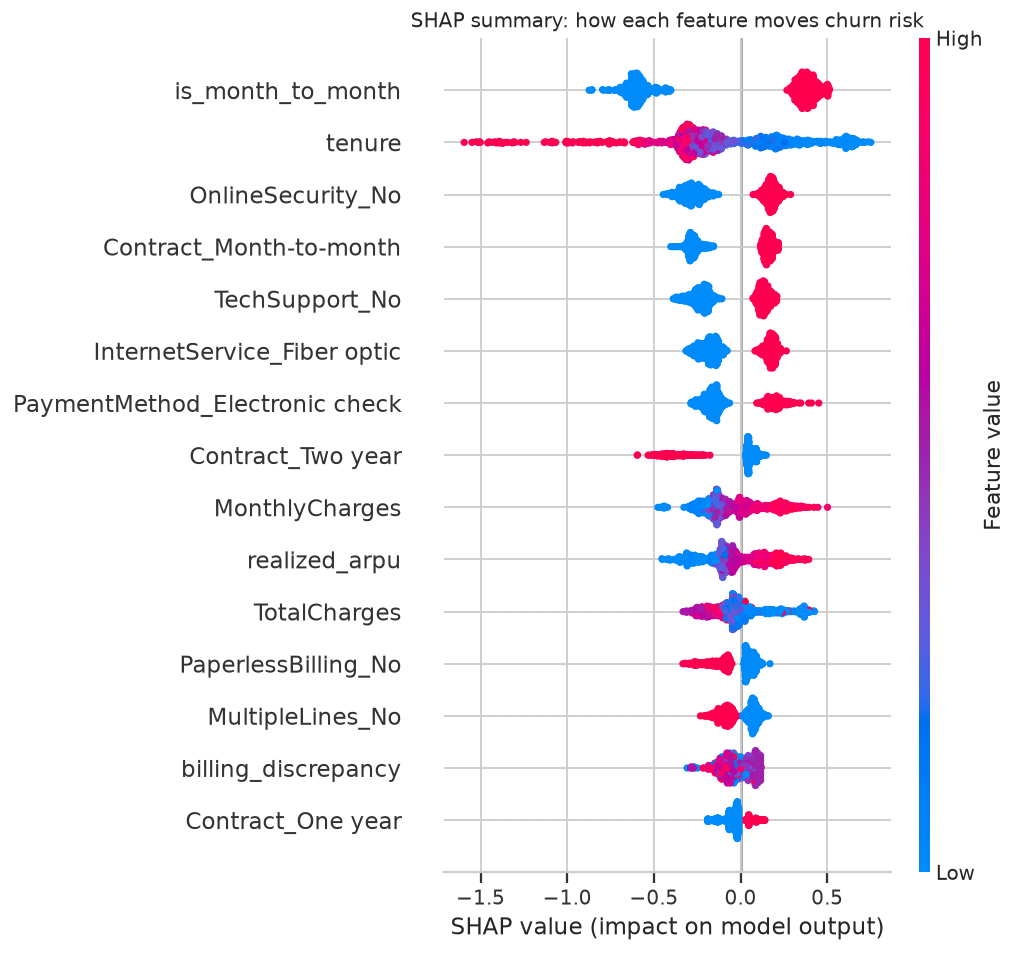
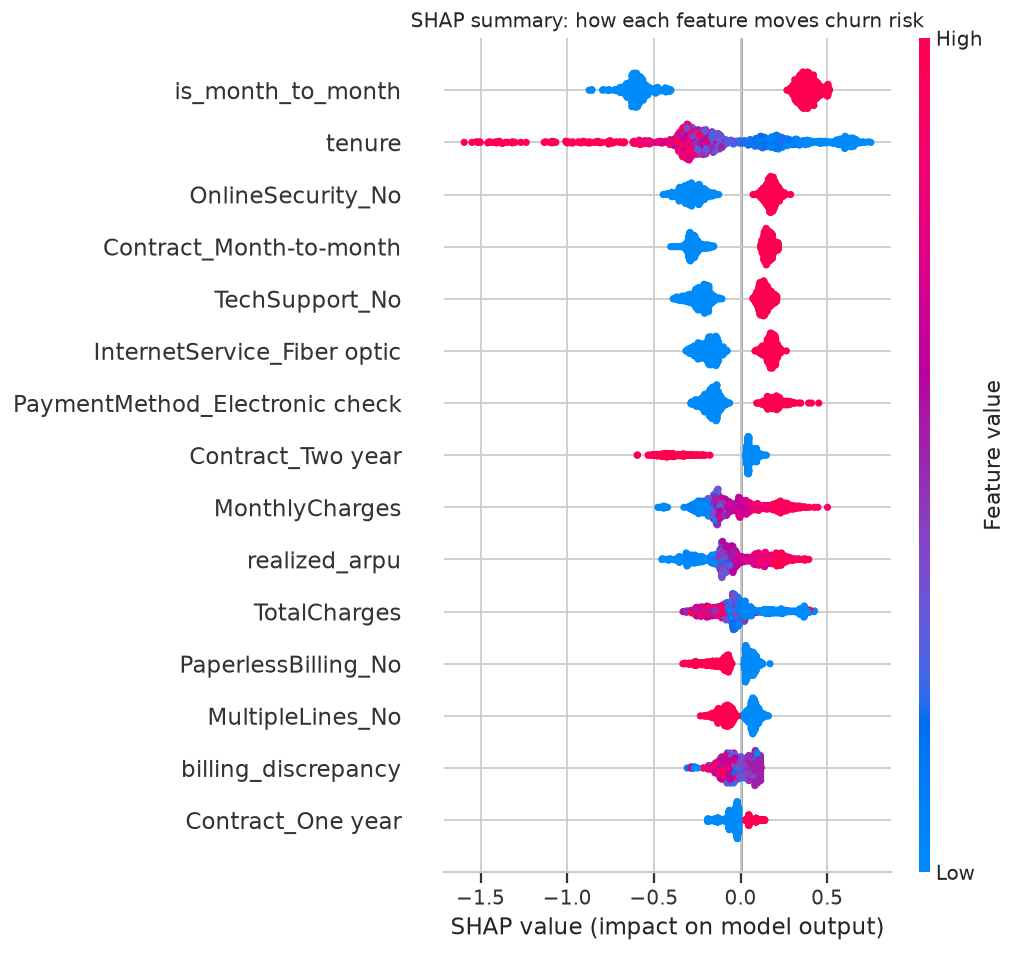
AIML-3: close four gaps against the spec, incl. the missing calibration curve
Self-review against the requirements found four things missing, three of them
explicitly asked for.

Requirement 8 asks for a calibration curve. `reliability_data()` existed but was
never called from anywhere -- so there was no reliability diagram, and the
function was dead code. Adds src/evaluation/plots.py and wires it in, plotting
all three candidates (uncalibrated, sigmoid, isotonic) on one axis so the figure
shows what was chosen AND what was rejected. It makes the decision to decline
calibration visible: sigmoid deviates across the mid-range where most customers
sit, while the uncalibrated curve hugs the diagonal.

The lower panel of that figure carries the bin counts, because the top
probability bins hold only a few dozen customers and the wobble up there is
small-sample noise. A reliability curve read without its counts invites fixing a
problem that does not exist.

Requirement 7 asks for threshold analysis; there were tables but no plot. Adds
net value / precision-recall / contact-rate against threshold, with the default
0.5, the value-optimal point and the per-customer EV rule all marked. Also adds
PR and ROC curves -- with the PR baseline drawn at the base rate rather than 0.5,
since that is what makes PR-AUC ~0.61 a real result at a 26.5% base rate -- and
confusion matrices at both thresholds.

data/processed/ existed as an empty directory from the requested structure.
Training now writes scored_test_customers.csv there: one row per customer with
[…]

Changed region(s): [[0.6699, 0.5173, 0.7613, 0.6695], [0.6395, 0.1217, 0.7613, 0.1826], [0.6699, 0.7912, 0.7613, 0.8216]]

diff --git a/aiml3-customer-churn-explainable-ml/src/evaluation/plots.py b/aiml3-customer-churn-explainable-ml/src/evaluation/plots.py
@@ -1,0 +1,178 @@
+"""Evaluation figures: calibration, thresholds, PR/ROC, confusion.
+
+Kept separate from metrics.py so the metric functions stay importable without
+pulling in matplotlib, and so a headless run can skip plotting entirely.
+"""
+from __future__ import annotations
+
+from pathlib import Path
+
+import matplotlib
+
+matplotlib.use("Agg")  # must precede pyplot; keeps a headless run from needing a display
+
+import matplotlib.pyplot as plt
+import numpy as np
+import pandas as pd
+from sklearn.metrics import precision_recall_curve, roc_curve
+
+from src.evaluation.metrics import MetricSet, expected_calibration_error, reliability_data
+
+CHURN_COLOR = "#c53030"
+STAY_COLOR = "#2b6cb0"
+
+
+def plot_calibration(
+    y_true: np.ndarray, probabilities: dict[str, np.ndarray], dest: Path,
+    n_bins: int = 10,
+) -> Path:
+    """Reliability diagram comparing raw and calibrated probabilities.
+
+    The diagonal is perfect calibration. A curve below it means the model is
+    overconfident (it says 0.8 for groups that churn less often), which inflates
+    every expected-value calculation in the decision layer.
+
+    The histogram matters as much as the curve: a bin holding 5 customers can sit
+    far off the diagonal through noise alone, so the curve should not be read
+    without the counts underneath it.
+    """
+    y_true = np.asarray(y_true).astype(int)
+    fig, (ax, ax_hist) = plt.subplots(
+        2, 1, figsize=(7.5, 8), sharex=True,
+        gridspec_kw={"height_ratios": [3, 1]})
+
+    ax.plot([0, 1], [0, 1], "--", color="black", lw=1, label="perfectly calibrated")
+    for name, prob in probabilities.items():
+        mean_pred, frac_pos = reliability_data(y_true, prob, n_bins=n_bins)
+        ece = expected_calibration_error(y_true, prob, n_bins=n_bins)
+        ax.plot(mean_pred, frac_pos, "o-", lw=1.8, ms=5,
+                label=f"{name} (ECE {ece:.4f})")
+        ax_hist.hist(prob, bins=n_bins, range=(0, 1), alpha=0.5, label=name)
+
+    ax.set_ylabel("observed churn rate")
+    ax.set_title("Calibration: does a predicted 0.7 mean a 70% chance?", fontsize=12)
+    ax.legend(fontsize=9, loc="upper left")
+    ax.grid(alpha=0.3)
+
+    ax_hist.set_xlabel("predicted probability")
+    ax_hist.set_ylabel("customers")
+    ax_hist.set_yscale("log")
+    ax_hist.set_title("Prediction distribution (bin counts behind the curve above)",
+                      fontsize=10)
+    ax_hist.grid(alpha=0.3)
+
+    fig.tight_layout()
+    fig.savefig(dest, dpi=130)
+    plt.close(fig)
+    return dest
+
+
+def plot_threshold_analysis(
+    curve: pd.DataFrame, best_threshold: float, dest: Path,
+    per_customer_value: float | None = None,
+) -> Path:
+    """Net value, precision/recall and contact volume against the threshold.
+
+    Shows why 0.5 is an arbitrary choice: the value-optimal point is wherever the
+    net-value curve peaks, and that depends on the assumed economics rather than
+    on anything in the data.
+    """
+    fig, axes = plt.subplots(1, 3, figsize=(16, 4.4))
+
+    ax = axes[0]
+    ax.plot(curve["threshold"], curve["net_value"], color="#276749", lw=2)
+    ax.axvline(best_threshold, ls="--", color=CHURN_COLOR, lw=1.5,
+               label=f"optimal {best_threshold:.2f}")
+    ax.axvline(0.5, ls=":", color="black", lw=1.2, label="default 0.5")
+    if per_customer_value is not None:
+        ax.axhline(per_customer_value, ls="-.", color="#553c9a", lw=1.4,
+                   label="per-customer EV rule")
+    ax.set_title("Net retention value by threshold\n(assumed economics)", fontsize=10)
+    ax.set_xlabel("threshold")
+    ax.set_ylabel("net value (CU)")
+    ax.legend(fontsize=8)
+    ax.grid(alpha=0.3)
+
+    ax = axes[1]
+    ax.plot(curve["threshold"], curve["precision"], label="precision", color=STAY_COLOR)
+    ax.plot(curve["threshold"], curve["recall"], label="recall", color=CHURN_COLOR)
+    ax.axvline(best_threshold, ls="--", color=CHURN_COLOR, lw=1.2)
+    ax.axvline(0.5, ls=":", color="black", lw=1.2)
+    ax.set_title("Precision and recall trade-off", fontsize=10)
+    ax.set_xlabel("threshold")
+    ax.legend(fontsize=8)
+    ax.grid(alpha=0.3)
+
+    ax = axes[2]
+    ax.plot(curve["threshold"], curve["contact_rate"], color="#975a16", lw=2)
+    ax.axvline(best_threshold, ls="--", color=CHURN_COLOR, lw=1.2)
+    ax.set_title("Share of customers contacted", fontsize=10)
+    ax.set_xlabel("threshold")
+    ax.set_ylabel("contact rate")
+    ax.grid(alpha=0.3)
+
+    fig.tight_layout()
+    fig.savefig(dest, dpi=130)
+    plt.close(fig)
+    return dest
+
+
+def plot_pr_roc(
+    y_true: np.ndarray, prob: np.ndarray, dest: Path, base_rate: float | None = None,
+) -> Path:
+    """PR and ROC curves side by side.
+
+    The PR baseline is the base rate, not 0.5 -- which is why PR-AUC of 0.61 at a
+    26.5% base rate is a real result rather than a poor one.
+    """
+    y_true = np.asarray(y_true).astype(int)
+    base = float(y_true.mean()) if base_rate is None else base_rate
+
+    fig, axes = plt.subplots(1, 2, figsize=(12, 4.6))
+
+    precision, recall, _ = precision_recall_curve(y_true, prob)
+    axes[0].plot(recall, precision, color=CHURN_COLOR, lw=2)
+    axes[0].axhline(base, ls="--", color="black", lw=1,
+                    label=f"no-skill baseline = base rate {base:.3f}")
+    axes[0].set_xlabel("recall")
+    axes[0].set_ylabel("precision")
+    axes[0].set_title("Precision-Recall curve (primary metric)")
+    axes[0].legend(fontsize=8)
+    axes[0].grid(alpha=0.3)
+
+    fpr, tpr, _ = roc_curve(y_true, prob)
+    axes[1].plot(fpr, tpr, color=STAY_COLOR, lw=2)
+    axes[1].plot([0, 1], [0, 1], "--", color="black", lw=1, label="no skill")
+    axes[1].set_xlabel("false positive rate")
+    axes[1].set_ylabel("true positive rate")
+    axes[1].set_title("ROC curve")
+    axes[1].legend(fontsize=8)
+    axes[1].grid(alpha=0.3)
+
+    fig.tight_layout()
+    fig.savefig(dest, dpi=130)
+    plt.close(fig)
+    return dest
+
+
+def plot_confusion(metrics: dict[str, MetricSet], dest: Path) -> Path:
+    """Confusion matrices at the default and value-optimal thresholds."""
+    fig, axes = plt.subplots(1, len(metrics), figsize=(5.5 * len(metrics), 4.4))
+    if len(metrics) == 1:
+        axes = [axes]
+
+    for ax, (name, m) in zip(axes, metrics.items(), strict=True):
+        grid = np.array([[m.tn, m.fp], [m.fn, m.tp]])
+        ax.imshow(grid, cmap="Blues")
+        for (i, j), v in np.ndenumerate(grid):
+            ax.text(j, i, f"{v:,}", ha="center", va="center", fontsize=14,
+                    color="white" if v > grid.max() / 2 else "black")
+        ax.set_xticks([0, 1], ["predicted stay", "predicted churn"])
+        ax.set_yticks([0, 1], ["actually stayed", "actually churned"])
+        ax.set_title(f"{name}\nprecision {m.precision:.3f}  recall {m.recall:.3f}",
+                     fontsize=10)
+
+    fig.tight_layout()
+    fig.savefig(dest, dpi=130)
+    plt.close(fig)
+    return dest

diff --git a/aiml3-customer-churn-explainable-ml/src/run.py b/aiml3-customer-churn-explainable-ml/src/run.py
@@ -98,6 +98,7 @@ def stage_eda(cfg: Config, args) -> None:
 
 def stage_train(cfg: Config, args) -> None:
     from src.evaluation import metrics as M
+    from src.evaluation import plots
     from src.evaluation.error_analysis import (
         error_costs,
         error_frame,
@@ -180,6 +181,24 @@ def stage_train(cfg: Config, args) -> None:
     print(M.metrics_frame({"threshold_0.50": m_default,
                            f"threshold_{thr.best_threshold:.2f}": m_tuned}).round(4).to_string())
 
+    # ---- evaluation figures ----
+    figdir = cfg.resolve("paths", "figures_dir")
+    # Compare the served probabilities against the calibrated alternatives, so the
+    # reliability diagram shows what was chosen AND what was rejected.
+    prob_variants = {c.method if c.method != "none" else "uncalibrated":
+                     c.model.predict_proba(ds.X_test)[:, 1] for c in cal_all}
+    written = [
+        plots.plot_calibration(y_test, prob_variants, figdir / "10_calibration_curve.png"),
+        plots.plot_threshold_analysis(thr.curve, thr.best_threshold,
+                                     figdir / "11_threshold_analysis.png",
+                                     per_customer_value=thr.per_customer_net_value),
+        plots.plot_pr_roc(y_test, prob, figdir / "12_pr_roc_curves.png"),
+        plots.plot_confusion({"threshold 0.50": m_default,
+                              f"threshold {thr.best_threshold:.2f}": m_tuned},
+                             figdir / "13_confusion_matrices.png"),
+    ]
+    print(f"\n[figures] {', '.join(p.name for p in written)}")
+
     sens = sensitivity_analysis(y_test, prob, value, cfg)
     print("\n--- sensitivity of the optimal threshold to the assumptions ---")
     print(sens.round(3).to_string(index=False))
@@ -196,6 +215,21 @@ def stage_train(cfg: Config, args) -> None:
     camp = campaign_summary(decisions)
     print("\n--- campaign plan (risk x value) ---")
     print(camp.round(3).to_string(index=False))
+
+    # The operational artefact: one row per scored customer with risk band,
+    # expected value and recommended action, ordered so a retention team can work
+    # down it. This is what the model is actually for.
+    processed = cfg.resolve("data", "processed_dir")
+    processed.mkdir(parents=True, exist_ok=True)
+    scored = decisions.copy()
+    scored.insert(0, cfg.id_column, ds.ids_test.to_numpy())
+    scored["actually_churned"] = y_test
+    scored = scored.sort_values(["priority", "expected_value_cu"],
+                               ascending=[True, False])
+    scored_path = processed / "scored_test_customers.csv"
+    scored.to_csv(scored_path, index=False)
+    print(f"  [saved] {scored_path.relative_to(cfg.resolve('paths', 'models_dir').parent)}"
+          f"  ({len(scored):,} rows, ranked call list)")
     print(f"  contacts recommended: {int(decisions['contact_recommended'].sum())} "
           f"of {len(decisions)}; EV-overrides-band: "
           f"{int(decisions['ev_overrides_segment'].sum())}")

diff --git a/aiml3-customer-churn-explainable-ml/src/reporting.py b/aiml3-customer-churn-explainable-ml/src/reporting.py
@@ -217,6 +217,11 @@ def write_report(cfg: Config, results: dict[str, Any]) -> str:
           "test set.\n")
         a("`ece` is reported next to Brier because the Brier score mixes calibration "
           "and discrimination, so it can improve for the wrong reason.\n")
+        a("![calibration curve](./figures/10_calibration_curve.png)\n")
+        a("The lower panel is not decoration: the top probability bins hold only a "
+          "few dozen customers, so the wobble at the high end is small-sample noise "
+          "rather than a calibration failure. Reading the curve without the counts "
+          "invites fixing a problem that is not there.\n")
 
     # ---------------- evaluation ----------------
     a("## 6. Evaluation and threshold selection\n")
@@ -254,6 +259,12 @@ def write_report(cfg: Config, results: dict[str, Any]) -> str:
           f"**{thr.get('breakeven_max', 0):.1%}** across the test set. A single global "
           "cut cannot express that a high-value customer is worth contacting at much "
           "lower risk than a low-value one.\n")
+
+        a("![threshold analysis](./figures/11_threshold_analysis.png)\n")
+        a("![pr and roc curves](./figures/12_pr_roc_curves.png)\n")
+        a("The PR baseline is the **base rate**, not 0.5 — which is why a PR-AUC of "
+          "~0.61 against a 26.5% base rate is a genuine result rather than a poor one.\n")
+        a("![confusion matrices](./figures/13_confusion_matrices.png)\n")
 
         sens = _df(tr.get("sensitivity"))
         if not sens.empty:

diff --git a/aiml3-customer-churn-explainable-ml/README.md b/aiml3-customer-churn-explainable-ml/README.md
@@ -307,6 +307,13 @@ finds **zero** churners, and accuracy presumes a 0.5 cutoff no campaign would ch
 | Brier | 0.1425 | 0.1425 |
 | TN / FP / FN / TP | 931 / 103 / 196 / 176 | 566 / 468 / 35 / 337 |
 
+![confusion matrices](./reports/figures/13_confusion_matrices.png)
+
+Moving the threshold from 0.50 to 0.13 converts **161 missed churners into caught ones**
+(196 → 35 false negatives) at the cost of 365 extra wasted contacts. Whether that trade is
+worth making is an economic question, not a statistical one — which is what the next
+section answers.
+
 ### Cost/value framework
 
 ```
@@ -330,10 +337,17 @@ probability varies with customer value — from **8.2% to 51.9%** across the tes
 single global cut cannot express that a high-value customer is worth contacting at much
 lower risk than a low-value one.
 
+![threshold analysis](./reports/figures/11_threshold_analysis.png)
+
 **Sensitivity.** The optimal threshold is a function of parameters the data cannot
 supply, and it moves from **0.03 to 0.76** across the assumed grid. That dependency is
 why one threshold is never presented as *the* answer — the full table is in the
 [model report](./reports/model_report.md).
+
+![pr and roc curves](./reports/figures/12_pr_roc_curves.png)
+
+The PR baseline is the **base rate**, not 0.5 — which is why PR-AUC ~0.61 against a 26.5%
+base rate is a genuine result rather than a weak one.
 
 ## Calibration
 
@@ -343,9 +357,16 @@ why one threshold is never presented as *the* answer — the full table is in th
 | sigmoid | 0.1437 | 0.0461 | 0.4428 | 0.6178 |
 | isotonic | **0.1421** | 0.0260 | 0.4384 | 0.6185 |
 
+![calibration curve](./reports/figures/10_calibration_curve.png)
+
 Calibrators are fitted with internal CV on the **training** split and judged on the
 untouched test set. ECE is reported next to Brier because Brier mixes calibration with
 discrimination and can improve for the wrong reason.
+
+The count panel underneath is load-bearing: the top probability bins hold only a few
+dozen customers, so the wobble at the high end is small-sample noise, not a calibration
+failure. Sigmoid is the visibly worst of the three — it deviates across the mid-range
+where most customers actually sit.
 
 Isotonic wins on Brier by 0.0004 — below the `min_brier_gain: 0.001` guard set in config
 *before* seeing results — so the uncalibrated model ships. The reliability of the
@@ -495,7 +516,7 @@ pip install -r requirements.txt
 
 make download     # fetch the real dataset (7,043 rows); or `make sample`
 make all          # audit -> eda -> train -> explain -> predict -> report
-make test         # 51 tests
+make test         # 52 tests
 make lint         # ruff
 ```
 
@@ -563,13 +584,15 @@ python -m src.inference.predict --input customers.csv --output scored.csv --expl
 ```
 aiml3-customer-churn-explainable-ml/
 ├── configs/config.yaml          all tunable values incl. declared economics
-├── data/raw/                    gitignored; fetched or generated
+├── data/
+│   ├── raw/                     gitignored; fetched or generated
+│   └── processed/               scored_test_customers.csv — ranked call list
 ├── models/                      bundle + human-readable metadata sidecar
 ├── notebooks/                   01..06, executed, thin wrappers over src/
 ├── reports/
 │   ├── data_audit.md            generated
 │   ├── model_report.md          generated from run_results.json
-│   └── figures/                 9 figures
+│   └── figures/                 16 figures
 ├── src/
 │   ├── config.py                path resolution; no hardcoded paths
 │   ├── eda.py                   six business questions
@@ -578,10 +601,10 @@ aiml3-customer-churn-explainable-ml/
 │   ├── data/                    schema, loader, download, sample, audit
 │   ├── features/                engineer (row-wise), preprocess
 │   ├── models/                  train (+ paired tests), persist
-│   ├── evaluation/              metrics, threshold/EV, segments, error_analysis
+│   ├── evaluation/              metrics, threshold/EV, segments, error_analysis, plots
 │   ├── explainability/          shap_analysis
 │   └── inference/               predict, decision
-├── tests/                       51 tests
+├── tests/                       52 tests
 └── tools/build_notebooks.py     generates the notebooks from one source
 ```
 

diff --git a/aiml3-customer-churn-explainable-ml/reports/model_report.md b/aiml3-customer-churn-explainable-ml/reports/model_report.md
@@ -128,6 +128,10 @@ Selected: **none**. Calibrators are fitted with internal CV on the training spli
 
 `ece` is reported next to Brier because the Brier score mixes calibration and discrimination, so it can improve for the wrong reason.
 
+![calibration curve](./figures/10_calibration_curve.png)
+
+The lower panel is not decoration: the top probability bins hold only a few dozen customers, so the wobble at the high end is small-sample noise rather than a calibration failure. Reading the curve without the counts invites fixing a problem that is not there.
+
 ## 6. Evaluation and threshold selection
 
 ### Why accuracy is not the headline
@@ -158,6 +162,14 @@ value          = MonthlyCharges x 12 months
 | **per-customer EV rule** | **63,799** | 713 |
 
 The per-customer rule wins because the break-even probability varies with customer value, from **8.2%** to **51.9%** across the test set. A single global cut cannot express that a high-value customer is worth contacting at much lower risk than a low-value one.
+
+![threshold analysis](./figures/11_threshold_analysis.png)
+
+![pr and roc curves](./figures/12_pr_roc_curves.png)
+
+The PR baseline is the **base rate**, not 0.5 — which is why a PR-AUC of ~0.61 against a 26.5% base rate is a genuine result rather than a poor one.
+
+![confusion matrices](./figures/13_confusion_matrices.png)
 
 ### Sensitivity to the assumptions
 
@@ -435,7 +447,7 @@ Produced by `python -m src.run predict`.
     "name": "xgboost",
     "threshold": 0.13,
     "calibration": "none",
-    "trained_at": "2026-08-31T18:19:34+00:00"
+    "trained_at": "2026-08-31T19:01:22+00:00"
   },
   "caveat": "Currency figures use the assumed retention economics in configs/config.yaml; they are not measured business results."
 }
